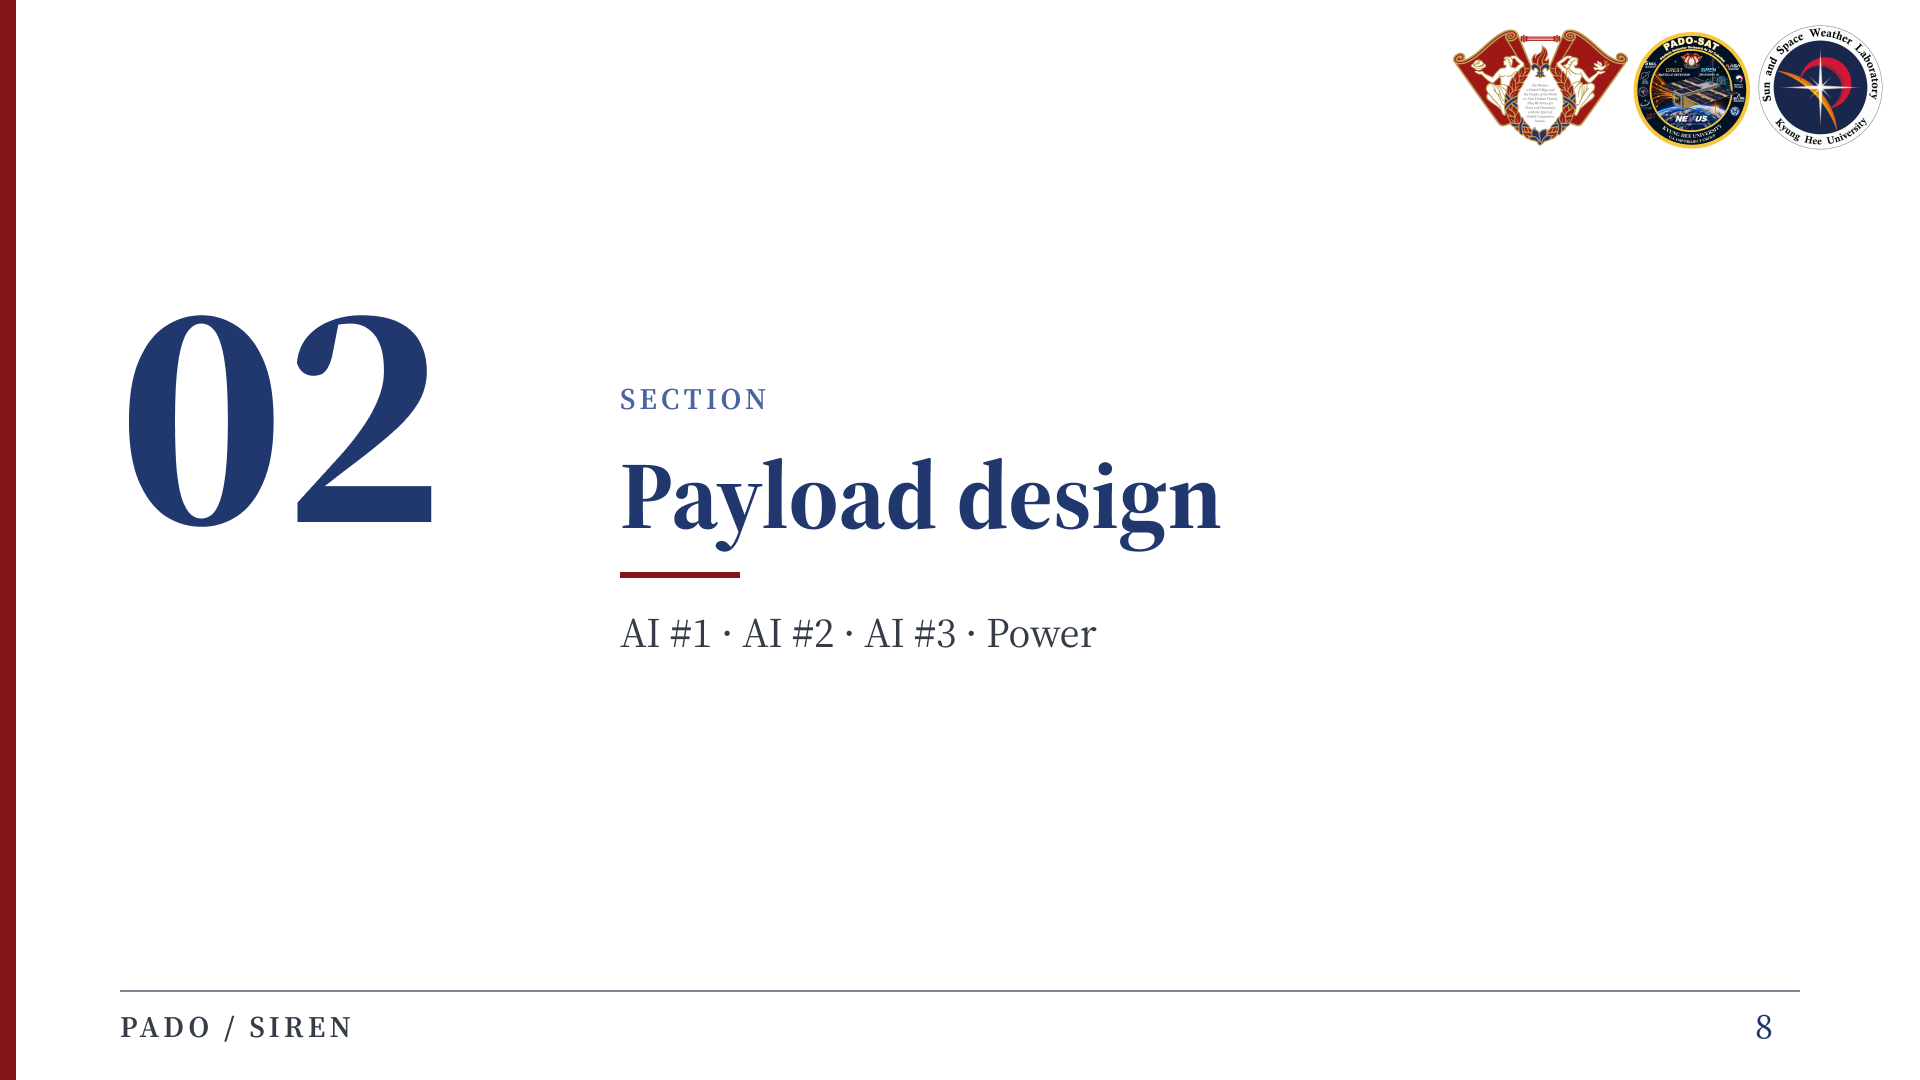
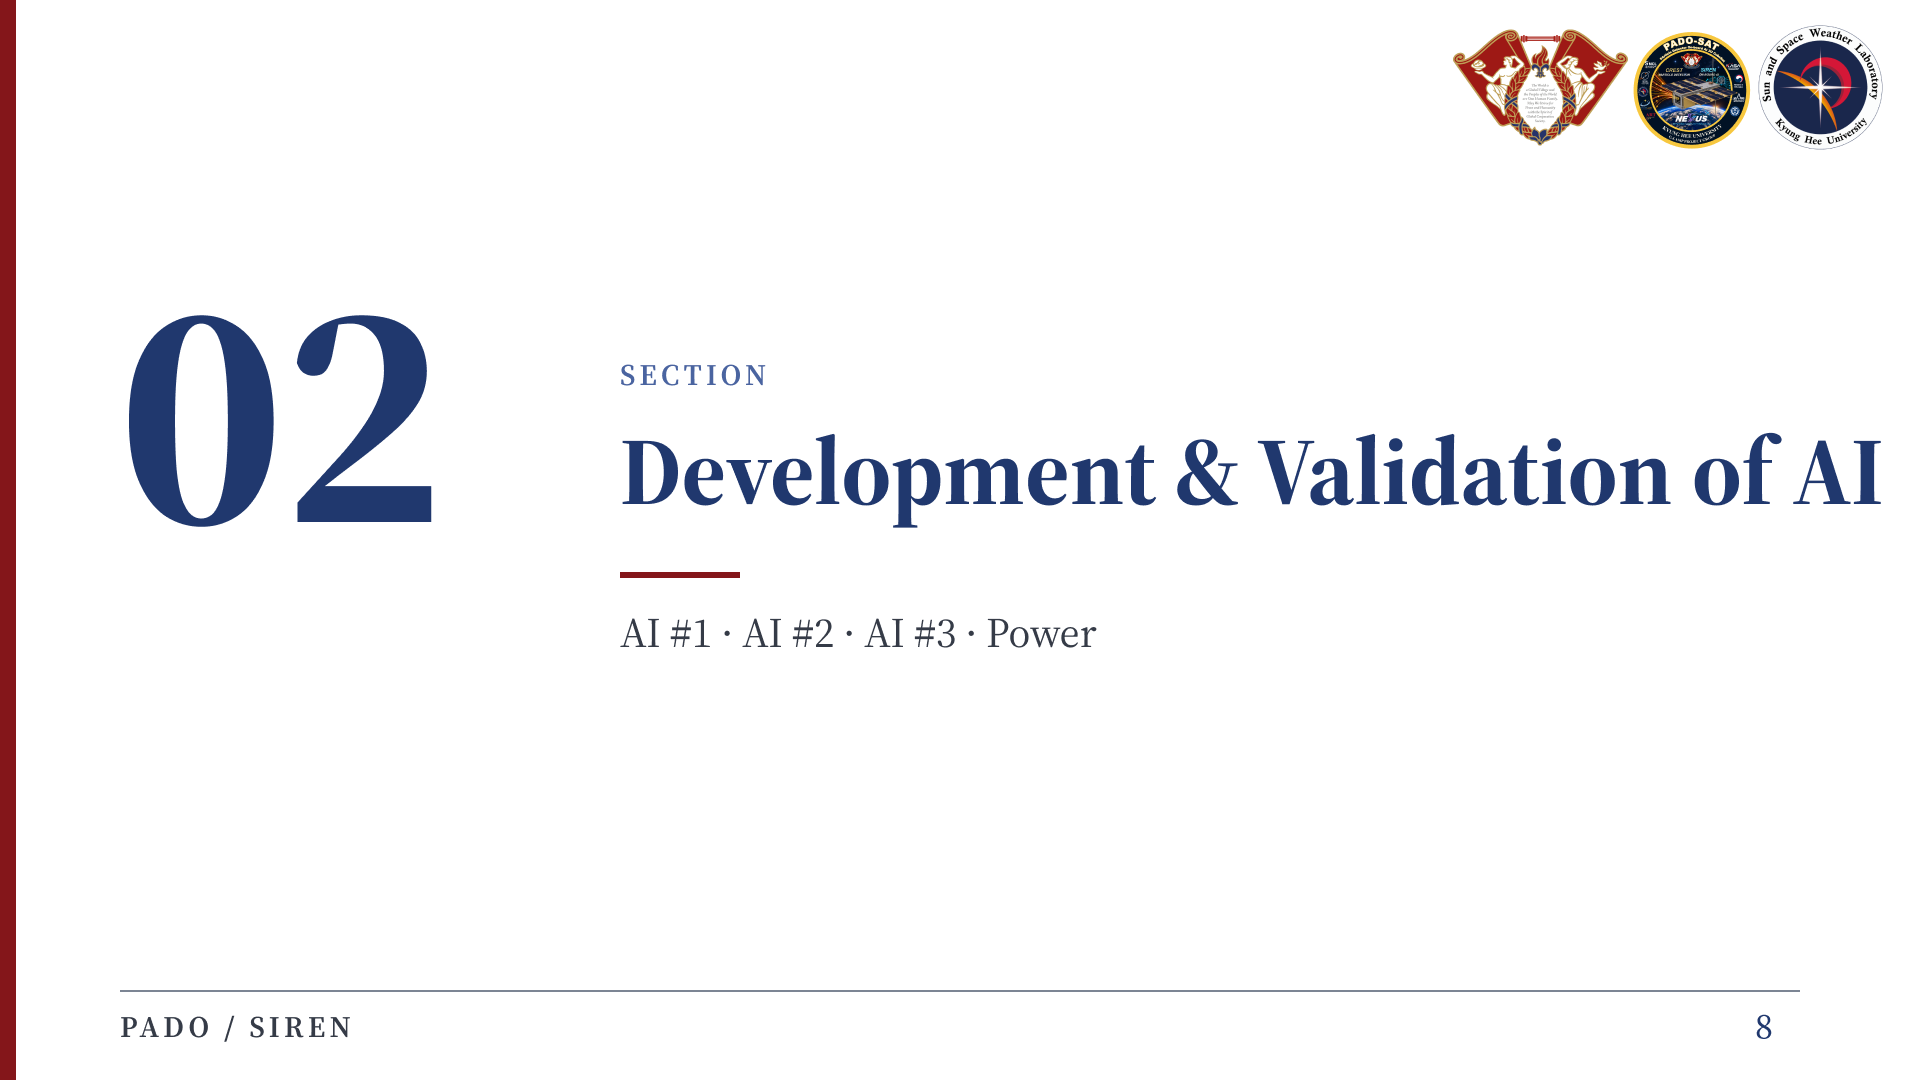
Refresh current Figma slides and presentation titles

Changed region(s): [[0.3125, 0.3361, 1.0, 0.5194]]

diff --git a/README.md b/README.md
@@ -8,7 +8,7 @@ PADO-SAT의 온보드 AI 탑재체 SIREN 발표 자료입니다.
 
 ### 01. Onboard AI Payload of PADO-SAT: SIREN
 
-![Slide 01: Onboard AI Payload of PADO-SAT: SIREN](assets/slides/01.png?v=6e8f21be2cc4)
+![Slide 01: Onboard AI Payload of PADO-SAT: SIREN](assets/slides/01.png?v=350e665cefc2)
 
 ### 02. Mission overview
 
@@ -32,15 +32,15 @@ PADO-SAT의 온보드 AI 탑재체 SIREN 발표 자료입니다.
 
 ### 07. SIREN-PADO SAT Interfaces
 
-![Slide 07: SIREN-PADO SAT Interfaces](assets/slides/07.png?v=e8f158ef2090)
+![Slide 07: SIREN-PADO SAT Interfaces](assets/slides/07.png?v=b1a138ed8838)
 
-### 08. Payload design
+### 08. Development & Validation of AI
 
-![Slide 08: Payload design](assets/slides/08.png?v=4519ef42e33d)
+![Slide 08: Development & Validation of AI](assets/slides/08.png?v=04ce7c0f71f1)
 
 ### 09. Effects of High Energy Charged Particles
 
-![Slide 09: Effects of High Energy Charged Particles](assets/slides/09.png?v=340ce3ae5e0e)
+![Slide 09: Effects of High Energy Charged Particles](assets/slides/09.png?v=f8b2f92613ac)
 
 ### 10. AI #1: Particle hazard detection
 
@@ -66,9 +66,9 @@ PADO-SAT의 온보드 AI 탑재체 SIREN 발표 자료입니다.
 
 ![Slide 15: Three AIs on one FPGA SoC](assets/slides/15.png?v=09f90a6d395f)
 
-### 16. Download and weekly NN tests
+### 16. Implementation & Performance
 
-![Slide 16: Download and weekly NN tests](assets/slides/16.png?v=6c7acb1bb1d1)
+![Slide 16: Implementation & Performance](assets/slides/16.png?v=328c78554aea)
 
 ### 17. Future Work and Summary
 
@@ -76,7 +76,7 @@ PADO-SAT의 온보드 AI 탑재체 SIREN 발표 자료입니다.
 
 ### 18. Future Work
 
-![Slide 18: Future Work](assets/slides/18.png?v=9dfac6a2f239)
+![Slide 18: Future Work](assets/slides/18.png?v=590b0f575218)
 
 ### 19. Summary
 
